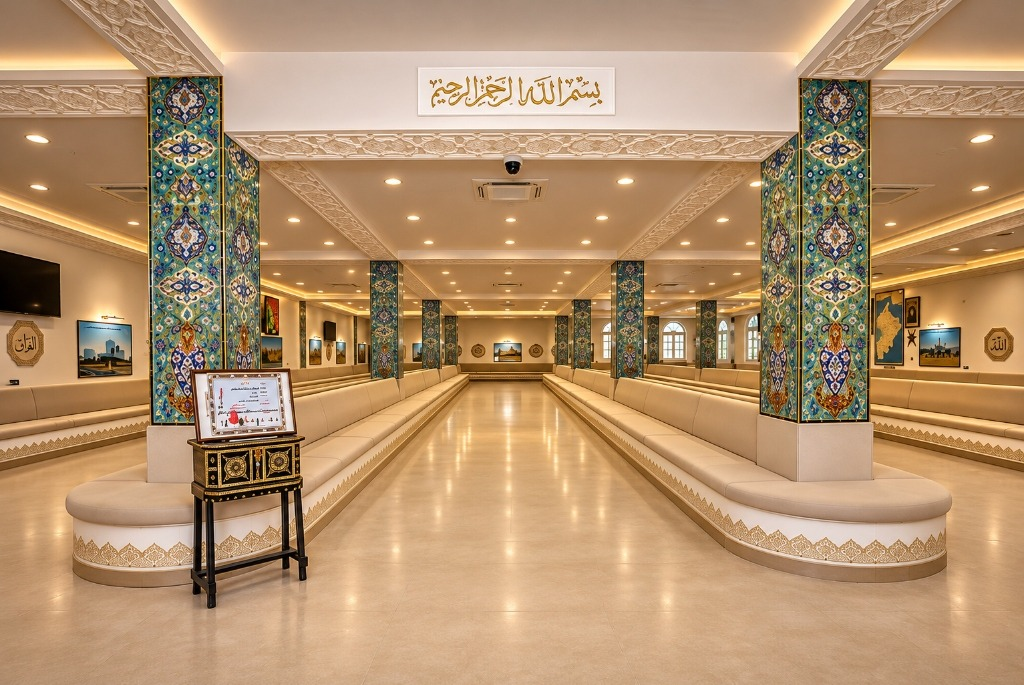
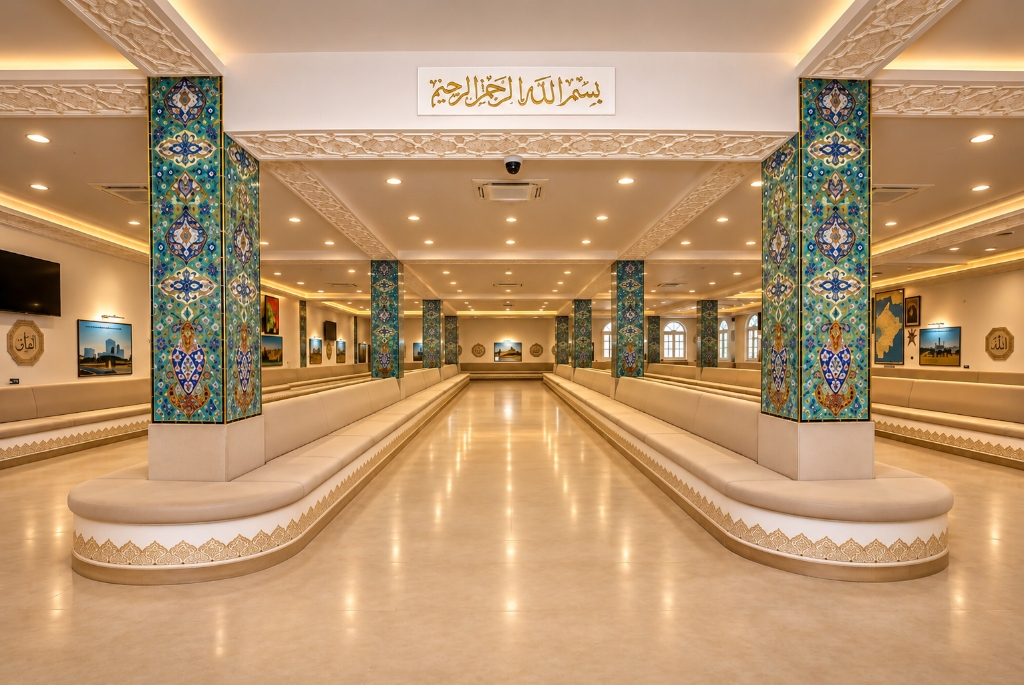
chore: update majlis hall image with clean version across about and booking pages

diff --git a/app/booking/page.tsx b/app/booking/page.tsx
@@ -135,7 +135,7 @@ export default function BookingPage() {
     },
     {
       id: "4",
-      src: "/facilities/portrait/majlis.jpg",
+      src: "/facilities/portrait/majlis.jpg?v=3",
       title: "بهو قاعة المجلس العام والزخارف",
       subtitle: "الأسقف المزخرفة والأعمدة المنقوشة والتجهيزات الفندقية الكاملة",
     },
@@ -760,7 +760,7 @@ export default function BookingPage() {
 
   return (
     <div className="relative min-h-screen bg-[#040812] text-[#FAF7F0] flex flex-col font-sans text-right selection:bg-[#D4AF85] selection:text-[#0B1220] overflow-x-hidden">
-      <MajlisShaderBackground imageSrc="/majlis-hall.jpg" />
+      <MajlisShaderBackground imageSrc="/majlis-hall.jpg?v=3" />
       <Navbar />
 
       <main className="relative z-10 max-w-7xl mx-auto px-4 sm:px-6 lg:px-8 pt-8 pb-16 sm:pt-12 sm:pb-24 w-full flex-1">

diff --git a/components/AboutMosque.tsx b/components/AboutMosque.tsx
@@ -56,8 +56,8 @@ export default function AboutMosque({ id = "about" }: { id?: string }) {
       desc: "صرح مجتمعي يتسع لنحو 700 شخص بكراسي مريحة. تتوسط صدره خارطة سلطنة عمان وقلاعها وحصونها التاريخية من مسندم إلى ظفار، مع دور علوي مخصص لسكن المعلمين والطلبة. دشّن في 1 مارس 2024م بعقد زواج مبارك ليكون مقصداً جامعاً لأفراح ومناسبات المجتمع.",
       tag: "مناسبات وأفراح وعزاء",
       icon: HeartHandshake,
-      image: "/facilities/majlis.jpg?v=2",
-      mobileImage: "/facilities/portrait/majlis.jpg?v=2",
+      image: "/facilities/majlis.jpg?v=3",
+      mobileImage: "/facilities/portrait/majlis.jpg?v=3",
     },
     {
       title: "مطبخ المجلس العام والضيافة",
